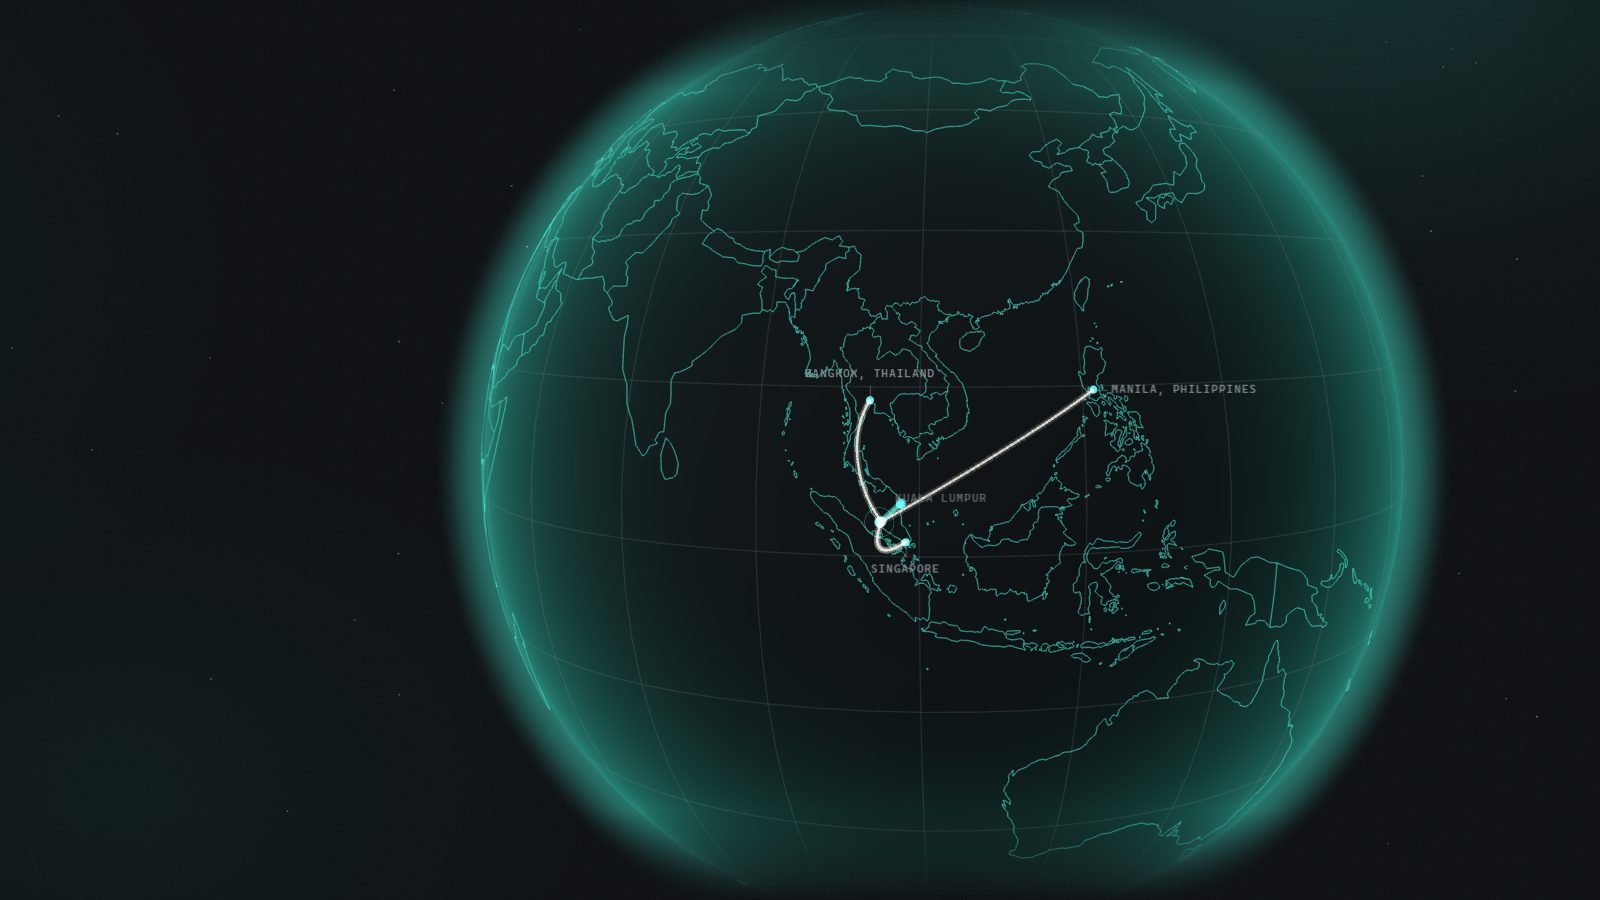
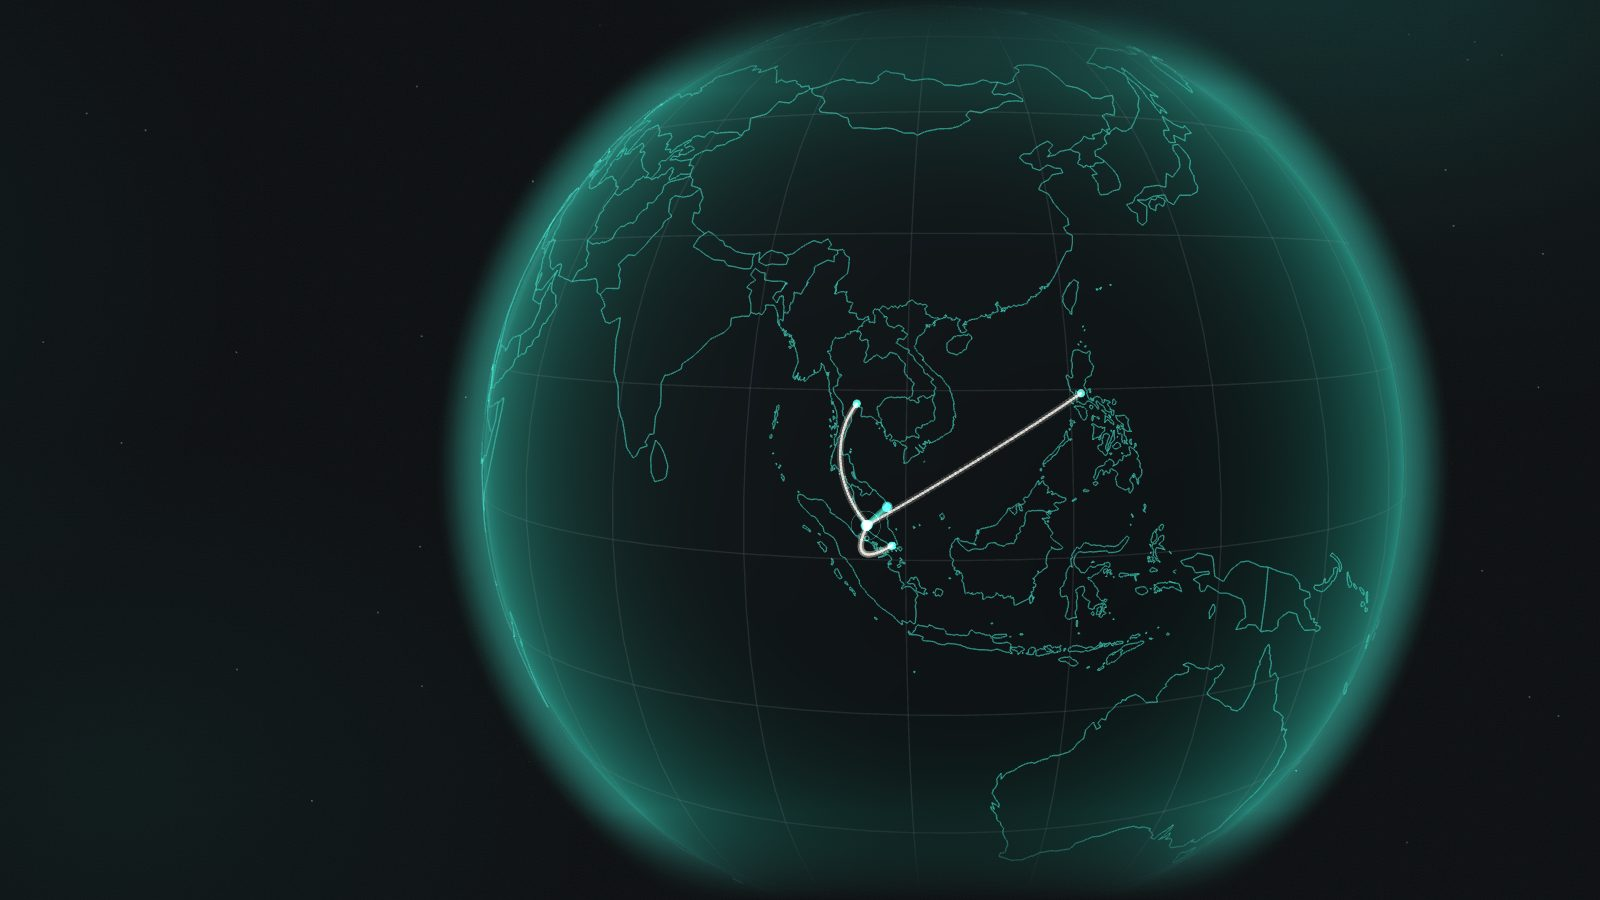
fix(globe): rail fits short viewports, aspect-aware layout switch, two-sided limb predicate, zero-footprint guards, language-neutral posters

diff --git a/assets/js/route-globe.js b/assets/js/route-globe.js
@@ -23,13 +23,14 @@
   var SEGMENT_SCROLL_SHARE = 0.42; /* viewport heights of scroll per stop-to-stop hop */
   var DPR_MAX = 1.75;              /* the stage is full-bleed now; 2 was fill-rate hungry */
   var IDLE_FRAME_MS = 32;          /* the breathing sway, pulses and the travelling light run at ~30 fps */
-  var NARROW_MAX_WIDTH = 899;      /* matches the CSS breakpoint for the caption layout */
+  /* One source of truth with style.css: the same query drives the caption
+     layout there and the camera framing here, so the two cannot disagree. */
+  var narrowQuery = window.matchMedia("(max-width: 899px), (max-aspect-ratio: 21/20)");
   var STAR_COUNT = 600;
   var STAR_SEED = 1992;
   var PULSE_MS = 1800;             /* active-marker ring period */
   var TRAVEL_MS = 2600;            /* one lap of the light along the drawn route */
   var MARKER_SCALE = 3.6;          /* plane half-size per unit of core.markerRadius() */
-  var RAIL_NODE_Y = 22;            /* node centre below the li top: 14px top + 8px radius (style.css) */
   var THREE_URL = "../vendor/three/three.module.min.js";
   var LINES_DIR = "../vendor/three/lines/";
   var LINE_MODULES = ["Line2", "LineSegments2", "LineGeometry", "LineSegmentsGeometry", "LineMaterial"];
@@ -94,7 +95,11 @@
   function probeWebGL2() {
     try {
       var probe = document.createElement("canvas");
-      return !!(window.WebGL2RenderingContext && probe.getContext("webgl2"));
+      var gl = window.WebGL2RenderingContext && probe.getContext("webgl2");
+      if (!gl) return false;
+      var lose = gl.getExtension("WEBGL_lose_context");
+      if (lose) lose.loseContext();
+      return true;
     } catch (e) { return false; }
   }
   function gate(withProbe) {
@@ -258,7 +263,8 @@
     try {
       renderer = new THREE.WebGLRenderer({ canvas: canvas, antialias: true, alpha: true, powerPreference: "low-power" });
     } catch (e) {
-      transition("load-fail"); section.dataset.globe = "error"; warn("renderer", e && e.message); return;
+      warn("renderer", e && e.message);
+      throw e;                     /* start() wraps build() in fail(): one error path, not two */
     }
     renderer.setClearColor(0x000000, 0);
 
@@ -390,8 +396,16 @@
         setPulse: function (head) { if (pulse) pulse.material.dashOffset = -head; }
       };
     }
+    /* No footprints (a stops list without any) means no arc geometry at all:
+       an empty buffer is a degenerate draw call, so hand frame() a stub with
+       the same five methods instead. */
+    function noPolyline() {
+      return { setColor: function () {}, setOpacity: function () {}, setCount: function () {},
+               setResolution: function () {}, setPulse: function () {} };
+    }
     var route = LINES ? fatPolyline(path.positions, false) : thinPolyline(path.positions, THREE.Line);
-    var arcs = LINES ? fatPolyline(arcPairs, true) : thinPolyline(arcPairs, THREE.LineSegments);
+    var arcs = !arcPairs.length ? noPolyline()
+      : LINES ? fatPolyline(arcPairs, true) : thinPolyline(arcPairs, THREE.LineSegments);
     route.setCount(0);
     arcs.setOpacity(0);
 
@@ -441,7 +455,7 @@
       m.footprint = true;
       return m;
     });
-    var allMaterials = placeMarkers.concat(footprintMarkers).map(function (m) { return m.mat; });
+    var markerMaterials = placeMarkers.concat(footprintMarkers).map(function (m) { return m.mat; });
     /* The stop the arcs fan out of: the only place label kept at the region
        pull-back, where all four Malaysian places project into ~30px. */
     var hubIndex = timeline.footprints.length ? timeline.footprints[0].originIndex : -1;
@@ -474,7 +488,7 @@
       labels.forEach(function (l) {
         var m = l.marker;
         var hidden = !facingCamera(m, limit) || (m.footprint && reveal <= 0.02);
-        if (!m.footprint && regionActive && m.indices.indexOf(hubIndex) === -1) hidden = true;
+        if (!m.footprint && regionActive && hubIndex >= 0 && m.indices.indexOf(hubIndex) === -1) hidden = true;
         if (l.el.hidden !== hidden) l.el.hidden = hidden;
         if (hidden) return;
         projected.copy(l.world).project(camera);
@@ -520,7 +534,7 @@
 
       route.setColor(teal);        /* the route rhymes with the timeline spine */
       arcs.setColor(paper);        /* paper: teal arcs vanish against teal coastlines */
-      allMaterials.forEach(function (m) {
+      markerMaterials.forEach(function (m) {
         tint(m.uniforms.color.value, teal);
         m.blending = light ? THREE.NormalBlending : THREE.AdditiveBlending;
         m.needsUpdate = true;
@@ -529,7 +543,9 @@
     }
     new MutationObserver(function (mutations) {
       var lang = mutations.some(function (mu) { return mu.attributeName === "data-lang"; });
-      if (lang) refreshLabelText();
+      /* Malay captions are a different length, so the rail's node positions
+         move: re-measure rather than leave the progress bar on stale offsets. */
+      if (lang) { refreshLabelText(); layout(); }
       if (mutations.some(function (mu) { return mu.attributeName === "data-theme"; })) applyTheme();
     }).observe(root, { attributes: true, attributeFilter: ["data-theme", "data-lang"] });
     var scheme = window.matchMedia("(prefers-color-scheme: light)");
@@ -561,8 +577,17 @@
       if (activeEl) activeEl.classList.remove("is-active");
       activeEl = el;
       if (el) el.classList.add("is-active");
-      if (progressEl && el) progressEl.style.height = Math.max(0, el.offsetTop - keyframeEls[0].offsetTop) + "px";
+      measureProgress();
     }
+    function measureProgress() {
+      if (progressEl && activeEl) progressEl.style.height = Math.max(0, activeEl.offsetTop - keyframeEls[0].offsetTop) + "px";
+    }
+    /* setActive reads offsets while the outgoing description is still
+       collapsing (max-height animates for 0.4s), so the first measurement runs
+       ~50px long. Re-measure once the rail has settled. */
+    rail.addEventListener("transitionend", function (e) {
+      if (e.propertyName === "max-height") measureProgress();
+    });
 
     var camDir = { x: 0, y: 0, z: 1 };
     /* A surface point is hidden by the sphere below `limit`. The markers draw
@@ -639,14 +664,18 @@
       var w = stage.clientWidth, h = stage.clientHeight;
       if (!w || !h) return;
       viewW = w; viewH = h; aspect = w / h;
-      layoutMode = window.innerWidth <= NARROW_MAX_WIDTH ? "narrow" : "wide";
+      layoutMode = narrowQuery.matches ? "narrow" : "wide";
       renderer.setPixelRatio(core.capDevicePixelRatio(window.devicePixelRatio, DPR_MAX));
       renderer.setSize(w, h, false);
       camera.aspect = aspect;
       route.setResolution(w, h);
       arcs.setResolution(w, h);
-      if (progressEl) progressEl.style.top = (keyframeEls[0].offsetTop + RAIL_NODE_Y) + "px";
-      if (activeEl && progressEl) progressEl.style.height = Math.max(0, activeEl.offsetTop - keyframeEls[0].offsetTop) + "px";
+      /* The node centre comes from the CSS itself so a breakpoint that moves
+         the dot (the short-viewport rail) cannot drift from this constant. */
+      var nodeStyle = getComputedStyle(keyframeEls[0], "::before");
+      var nodeY = (parseFloat(nodeStyle.top) || 14) + (parseFloat(nodeStyle.height) || 16) / 2;
+      if (progressEl) progressEl.style.top = (keyframeEls[0].offsetTop + nodeY) + "px";
+      measureProgress();
       onScroll();
       requestRender();
     }

diff --git a/assets/css/style.css b/assets/css/style.css
@@ -303,7 +303,7 @@ html[lang="ms"] .portrait::after { content: "SEJAK 2010 · DUNGUN → SHAH ALAM"
    sticky scrollytelling panel, the list into a caption rail on the timeline's
    spine line, and appends the projected place labels. The stage has no box of its
    own: the canvas clears to transparent and fades into the page atmosphere. */
-.route-globe { padding-bottom: 0; }
+.section.route-globe { padding-bottom: 0; }
 /* 100vw includes the vertical scrollbar; route-globe.js publishes its width as
    --route-gutter so the stage is exactly the visible viewport and the rail lands
    on the .wrap edge. Without JS the half-scrollbar overshoot is harmless. */
@@ -381,7 +381,8 @@ html[lang="ms"] .portrait::after { content: "SEJAK 2010 · DUNGUN → SHAH ALAM"
 .route-globe.is-live .route-rail {
   position: absolute; top: 50%; transform: translateY(-50%);
   left: max(28px, calc(50% - 550px + 28px)); width: min(400px, 42vw); max-width: none;
-  max-height: calc(100vh - 140px); margin: 0; padding: 0 0 0 calc(var(--spine-x) + 30px);
+  max-height: calc(100vh - 60px); max-height: calc(100dvh - 60px);
+  margin: 0; padding: 0 0 0 calc(var(--spine-x) + 30px);
   overflow: hidden; pointer-events: none;
 }
 .route-globe.is-live .route-rail::before {
@@ -442,7 +443,18 @@ html[lang="ms"] .portrait::after { content: "SEJAK 2010 · DUNGUN → SHAH ALAM"
 /* the timeline continues straight under the stage */
 .section.journey-continued { padding-top: 24px; }
 
-@media (max-width: 899px) {
+/* short laptop viewports: compact the rail so all nine stops stay readable */
+@media (min-width: 900px) and (max-height: 880px) and (min-aspect-ratio: 21/20) {
+  .route-globe.is-live .route-stop { padding: 6px 0 8px; font-size: 0.84rem; }
+  .route-globe.is-live .route-stop::before { top: 10px; }
+  .route-globe.is-live .route-stop-year { font-size: 0.66rem; }
+  .route-globe.is-live .route-stop-place { font-size: 0.98rem; margin-top: 2px; }
+  .route-globe.is-live .route-stop.is-active .route-stop-desc { max-height: 5em; margin-top: 4px; }
+}
+
+/* The same query drives layoutMode in route-globe.js: a squarish or narrow
+   frame gets the bottom caption and the lifted, centred globe. */
+@media (max-width: 899px), (max-aspect-ratio: 21/20) {
   .route-globe.is-live .route-stage { height: min(100vh, 720px); height: min(100dvh, 720px); }
   .route-globe.is-live .route-rail {
     top: auto; bottom: 16px; left: 12px; right: 12px; width: auto; transform: none;

diff --git a/tests/route-globe-section.test.js b/tests/route-globe-section.test.js
@@ -173,6 +173,23 @@ test('the live stage is full-bleed, borderless and fades into the page', () => {
   assert.doesNotMatch(live[1], /border|box-shadow|border-radius|background/);
   assert.match(css, /\.route-fade \{[^}]*mask-image: linear-gradient\(to bottom, transparent, #000 10%, #000 90%, transparent\)/);
   assert.match(css, /\.journey-continued \{ padding-top: 24px; \}/);
+  // .section wins on specificity, so the padding reset has to carry it too.
+  assert.match(css, /\.section\.route-globe \{ padding-bottom: 0; \}/);
+});
+
+test('the caption breakpoint and the adapter framing switch use one query', () => {
+  assert.match(css, /@media \(max-width: 899px\), \(max-aspect-ratio: 21\/20\) \{/);
+  const adapter = fs.readFileSync(path.join(root, 'assets', 'js', 'route-globe.js'), 'utf8');
+  assert.match(adapter, /matchMedia\("\(max-width: 899px\), \(max-aspect-ratio: 21\/20\)"\)/);
+  // the short-viewport rail must never apply at the same time as the narrow one
+  assert.match(css, /@media \(min-width: 900px\) and \(max-height: 880px\) and \(min-aspect-ratio: 21\/20\) \{/);
+});
+
+test('adapter constants match the CSS and the spec budget', () => {
+  const adapter = fs.readFileSync(path.join(root, 'assets', 'js', 'route-globe.js'), 'utf8');
+  assert.match(adapter, /var DPR_MAX = 1\.75;/, 'spec §4.8 DPR cap');
+  assert.match(css, /\.route-globe\.is-live \.route-stop::before \{[^}]*top: 14px;[^}]*height: 16px/);
+  assert.doesNotMatch(adapter, /RAIL_NODE_Y/, 'the node centre is measured from CSS, not hard-coded');
 });
 
 test('the rail and labels are styled and frozen under reduced motion', () => {

diff --git a/assets/js/route-globe-core.js b/assets/js/route-globe-core.js
@@ -148,7 +148,9 @@
   }
 
   /* Roll the camera on long flights so the hop reads as banking, not a pan.
-     Zero below 2°, full 6° from 12°, sin-shaped so both ends rest level. */
+     Zero below 2°, full 6° from 12°, sin-shaped so both ends rest level.
+     The explicit zero at either end exists because `Math.sin(Math.PI)` is not
+     exactly 0. */
   function bankAngle(travel, hopAngle, direction) {
     var hop = Number(hopAngle) || 0;
     if (!(hop > 2 * DEG)) return 0;
@@ -293,7 +295,9 @@
     var halfH = Math.atan(Math.tan(halfV) * aspect);
     var ax = Math.atan(2 * Math.abs(Number(offsetX) || 0) * Math.tan(halfH));
     var ay = Math.atan(2 * Math.abs(Number(offsetY) || 0) * Math.tan(halfV));
-    return theta - ax < halfH - margin || theta - ay < halfV - margin;
+    var nearH = theta - ax < halfH - margin, nearV = theta - ay < halfV - margin;
+    var onScreenH = ax - theta < halfH, onScreenV = ay - theta < halfV; /* the offset has not pushed the whole sphere out */
+    return (nearH && onScreenH) || (nearV && onScreenV);
   }
 
   /* Wide (landscape) frames push the globe right so its left limb and

diff --git a/tests/route-globe-core.test.js b/tests/route-globe-core.test.js
@@ -233,6 +233,7 @@ test('limbInFrame is the geometric predicate it claims to be', () => {
   assert.equal(core.limbInFrame(1.5, 38, 1.6, 0, 0, 0), false);
   assert.equal(core.limbInFrame(1.5, 38, 1.6, 0.3, 0, 0), true);
   assert.equal(core.limbInFrame(1, 38, 1.6, 0, 0, 0), false, 'on the surface there is no limb');
+  assert.equal(core.limbInFrame(2, 38, 1.6, 2.0, 0, 0), false, 'a huge offset pushes the sphere off screen entirely');
 });
 
 test('framing keeps the limb in frame for every distance and aspect, with a 2° margin', () => {

diff --git a/docs/superpowers/specs/2026-09-05-route-globe-horizon-design.md b/docs/superpowers/specs/2026-09-05-route-globe-horizon-design.md
@@ -138,8 +138,10 @@ also drives the time uniforms below.
 
 ### 4.2 Atmosphere shell
 
-A second sphere, radius 1.09, `side: BackSide`, `depthWrite: false`, fresnel `pow(1 - dot,
-4.0)`:
+A second sphere, radius 1.09, `side: BackSide`, `depthWrite: false`, with the glow rising
+toward the globe's limb: on back faces the outward normal points away from the camera, so
+the shader uses `smoothstep(0, 0.45, -dot(n, view))²` (the `pow(1 - dot, 4)` form is for
+front faces and would be wrong here):
 
 - Dark: `--teal`, `AdditiveBlending`, peak alpha 0.55.
 - Light: `--teal-deep`, `NormalBlending`, peak alpha 0.16 (a haze, not a glow).
@@ -189,7 +191,8 @@ The route polyline and the three footprint arcs move to three.js's `Line2` addon
   instead of stacking. A 1px leader line from the label toward the marker is a CSS
   pseudo-element.
 - Per frame, the adapter projects each marker to CSS pixels and sets `transform`; a label is
-  hidden when its marker faces away (`dot(dir, cameraDir) < 0.12`). The active place's label
+  hidden — together with its marker, by one shared rule — when its surface point is
+  behind the horizon: `dot(dir, cameraDir) < 1/distance + 0.04`. The active place's label
   is `--paper` at full opacity; others are `--muted` mono at 0.7.
 
 ### 4.6 Camera: the limb is always in frame
@@ -209,15 +212,17 @@ The route polyline and the three footprint arcs move to three.js's `Line2` addon
   at least one axis. `framing()` must satisfy it for every distance in [1.5, 3.2] and every
   aspect in [0.45, 2.4]; the core test asserts this on a grid.
 - **Banking** on long hops: `bankAngle(travel, hopAngle)` returns a roll of up to 6°
-  (`sin(π·travel)` shaped, sign from the hop direction) applied through `camera.up`; zero
-  when the hop is under 2°, so the Klang Valley moves do not wobble.
+  (`sin(π·travel)` shaped, sign from the hop direction) applied as a roll
+  (`camera.rotateZ`) after `lookAt`; zero when the hop is under 2°, so the Klang
+  Valley moves do not wobble.
 - Idle drift, drag orbit and the settle decay are unchanged.
 
 ### 4.7 Starfield (dark theme only)
 
 `Points`: 600 unit vectors at radius 6–9, `size` 1.6px, `sizeAttenuation: false`, opacity
-0.35 dark / 0 light. The star group rotates by 0.3× the camera yaw for parallax.
-`starPositions(count, seed)` is a pure core function (deterministic, testable).
+0.35 dark / 0 light. The star group rotates by 0.3× the drag yaw offset for parallax
+while orbiting; the scroll flight leaves it fixed. `starPositions(count, seed)` is a
+pure core function (deterministic, testable).
 
 ### 4.8 Budget
 

diff --git a/CLAUDE.md b/CLAUDE.md
@@ -219,7 +219,9 @@ markup**: each `<li data-lat data-lng data-kind data-zoom [data-label-dir]>` in
 `#route-stops` is a camera keyframe in DOM order (`place` | `remote` | `region`) and the
 nested `data-kind="footprint"` items are the reveal's arc targets. `data-label-dir`
 (`n|ne|e|se|s|sw|w|nw`) fans the projected DOM label out from its marker; the three Klang
-Valley places must use three different directions or the labels stack. Town-level
+Valley places must use three different directions or the labels stack. One label per
+place: several stops share a marker (the Dungun years, the two Kuala Lumpur jobs), and the
+first stop at a place decides its direction and text. Town-level
 coordinates only — the profile's privacy exclusions rule out anything finer, and "Sura
 Gate" stays off the map. Adding a stop is an HTML + `i18n.js` edit;
 `tests/route-globe-section.test.js` checks ranges, kinds, zoom, directions and MS coverage.
@@ -250,9 +252,11 @@ mask fading its top and bottom edges; there is deliberately no border, radius, b
 or shadow — that box is what made the first version read as an embedded video. The
 posters are element screenshots of `#route-stage` at the final reveal (dark and light,
 1600×900, DPR 1) with the page chrome hidden first — `.nav, .progress, .chat-launcher,
-.chat-callout, .route-hint, #route-rail { visibility: hidden }` — because the fallback
-shows the real nav above the image and the plain stops list below it. Recapture them when
-the route, the framing or the palette changes.
+.chat-callout, .route-hint, #route-rail, .route-labels { visibility: hidden }` — because
+the fallback shows the real nav above the image and the plain stops list below it. Labels
+are hidden too because the poster is language-neutral: a Bahasa Melayu visitor on the
+fallback path must not see English place names. Recapture them when the route, the framing
+or the palette changes.
 
 #### Regenerating the globe coastlines
 
